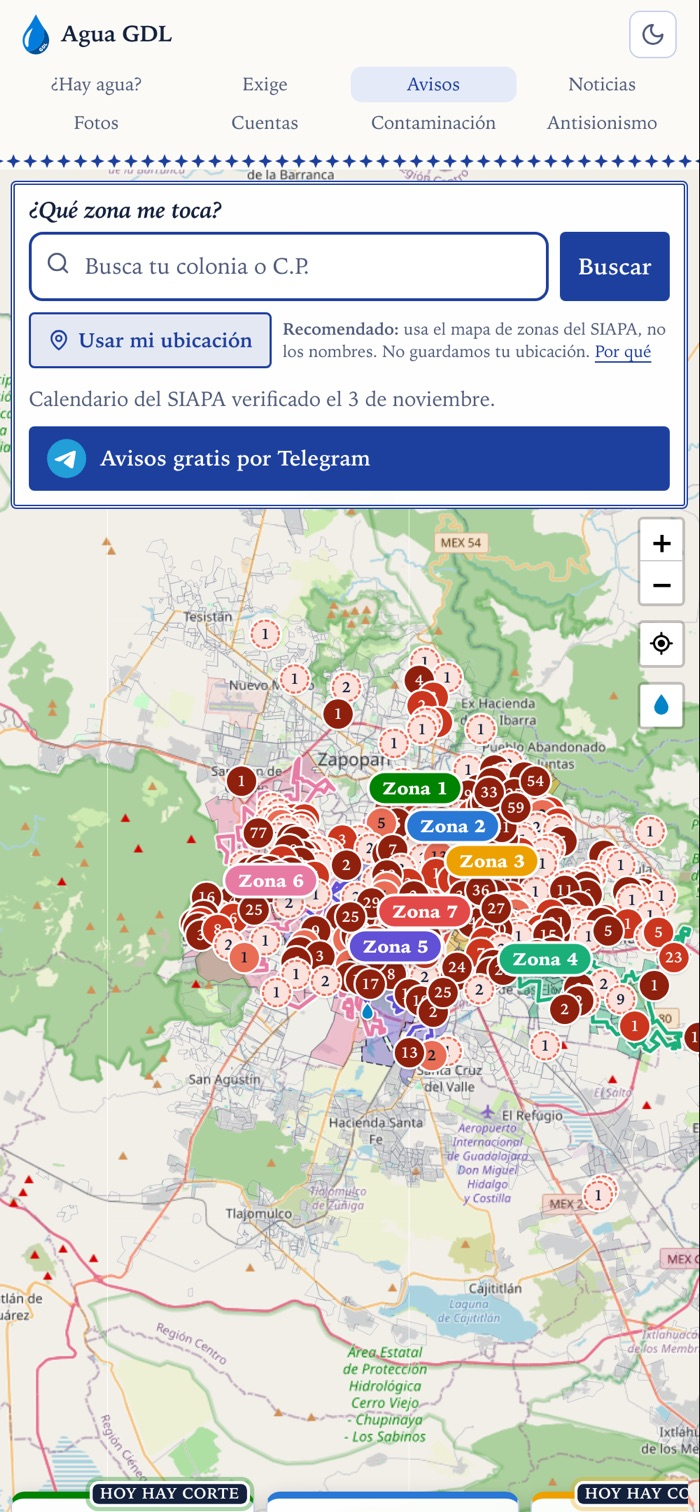
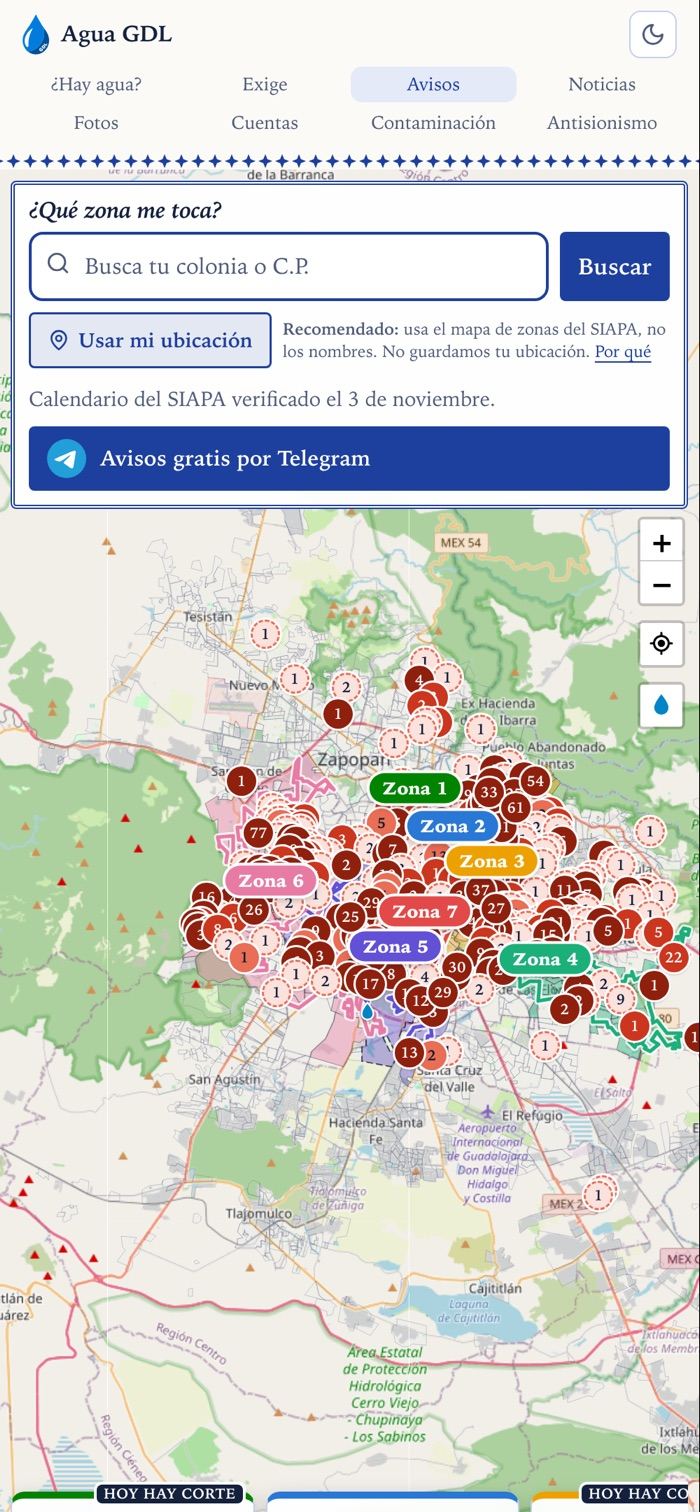
Carousels: fix review findings; build checks every quote
Second review of the restyled drafts: quotes kept to their sources' exact words (Barboza's full sentence, «Todas estas acciones», «Si hacemos esto…», CNN and Milenio paraphrases unquoted), discount eligibility «consumo promedio de hasta 25 m³», decreto not «ley», like-for-like 01 split, El Zapotillo's two measures separated, site counts updated to 339 and 259, Río Santiago PDF read and quoted, watermarked photo dropped. build.py now fails on any «…» not verbatim in the cited excerpts.

diff --git a/experiments/carrusel/build.py b/experiments/carrusel/build.py
@@ -86,6 +86,11 @@ def check(c, fotos_ok, temas):
             fail(f"{cid}: fuente {key} url must be https")
     if not 3 <= len(c["slides"]) <= 10:
         fail(f"{cid}: 3 to 10 slides")
+    allq = " ".join(f["cita"] for f in c["fuentes"].values()).replace("“", "").replace("”", "").replace('"', "")
+    for q in re.findall(r"«([^»]+)»", c["caption"]):
+        for part in (p.strip(" .,") for p in re.split(r"\[…\]|…", q)):
+            if part and part not in allq:
+                fail(f"{cid} caption: «{part}» is not word for word in any cita")
     if "¿" not in c["caption"]:
         fail(f"{cid}: the caption asks the reader something («¿…?») people can answer in the comments")
     if c["slides"][-1]["tipo"] != "cierre":
@@ -115,6 +120,11 @@ def check(c, fotos_ok, temas):
                 fail(f"{where}: {n} is not in the cited citas or the calculo")
         if s["tipo"] != "cierre" and not s.get("fuentes") and not s.get("propio"):
             fail(f"{where}: no fuentes; a slide without a source says why in \"propio\" (our question, proposal, method or service)")
+        pool_q = " ".join(c["fuentes"][k]["cita"] for k in s.get("fuentes", [])).replace("“", "").replace("”", "").replace('"', "")
+        for q in re.findall(r"«([^»]+)»", " ".join(texts)):
+            for part in (p.strip(" .,") for p in re.split(r"\[…\]|…", q.replace("*", ""))):
+                if part and part not in pool_q:
+                    fail(f"{where}: «{part}» is not word for word (capitals and accents included) in the cited citas")
         if s["tipo"] == "cita" and not s.get("fuentes"):
             fail(f"{where}: a quote needs its fuente")
         if s["tipo"] == "cita":

diff --git a/.claude/skills/carrusel/SKILL.md b/.claude/skills/carrusel/SKILL.md
@@ -25,7 +25,8 @@ Arguments: the topic, a colonia, or the facts to show. If the ask is vague, prop
 - No cause without a source that states it, and no juxtaposition that implies one (an official promise next to a headline about a colonia without water).
 - Name official programmes and figures as the government's claim, not ours («según el Gobierno de Jalisco, 4 de 10 hogares…»).
 - Don't add conditions or omit them: the 80% discount always carries «hasta 25 m³» and «afectados por la calidad del agua».
-- Captions aren't checked by the build: read each one against the slides' `cita`s yourself.
+- The build checks every «…» on slides (against the slide's cited `cita`s) and in captions (against any `cita`), capitals included; it can't check paraphrase, so still read each caption against the `cita`s.
+- When a photo is shown sharp, re-check it at full size: a faint outlet watermark or a banner naming another colonia can surface (6 Nov: 0e61b3ddde0a dropped for a Mural watermark).
 
 ## Our own analysis
 
